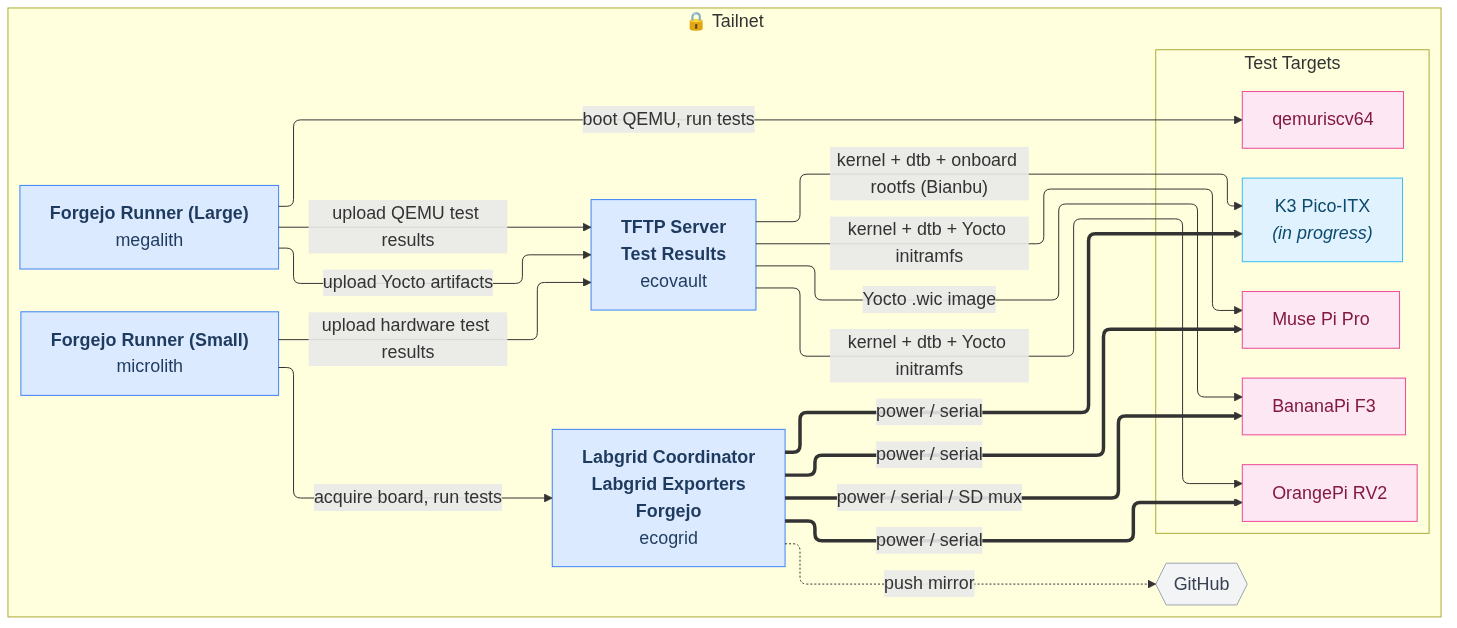
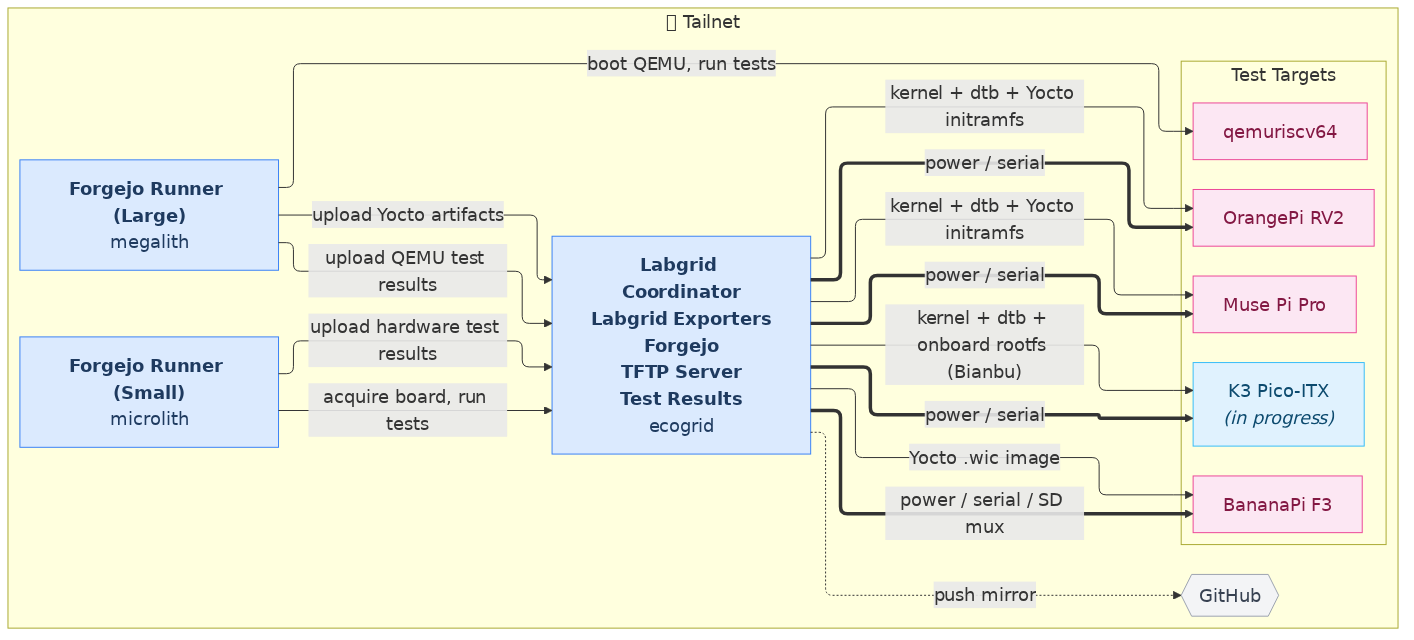
docs: update network, bom details for tftp, ecogrid

Changed region(s): [[0.0, 0.0605, 0.9958, 0.9984], [0.5912, 0.9076, 0.7468, 0.9379], [0.4668, 0.0, 0.529, 0.0605]]

diff --git a/docs/runners.md b/docs/runners.md
@@ -33,8 +33,8 @@ Set these in Settings → Actions → Variables.
 | `BOARDGARDEN_OWNER` | `tgamblin` | Owner/org of the `boardgarden`, `bitbake`, `openembedded-core`, `meta-riscv` mirrors |
 | `LG_COORDINATOR_HOST` | `ecogrid` | Short hostname of the Labgrid coordinator (also the exporter host). Used as `LG_COORDINATOR`, ssh target, and left half of `--add-host` |
 | `LG_COORDINATOR_IP` | `192.168.40.101` | LAN address for the coordinator. Right half of `--add-host` |
-| `TFTP_SERVER_HOST` | `ecovault` | Short hostname of the TFTP + report server. Used as `TFTP_SERVER`, rsync target, and left half of `--add-host` |
-| `TFTP_SERVER_IP` | `192.168.40.134` | LAN address for the TFTP server. Right half of `--add-host` |
+| `TFTP_SERVER_HOST` | `ecogrid` | Short hostname of the TFTP + report server. Used as `TFTP_SERVER`, rsync target, and left half of `--add-host`. Co-located with the Labgrid coordinator/exporter on `ecogrid` for now; may separate |
+| `TFTP_SERVER_IP` | `192.168.40.101` | LAN address for the TFTP server. Right half of `--add-host` |
 
 ## Repo secrets
 
@@ -46,9 +46,9 @@ Set these in Settings → Actions → Secrets.
 | `REGISTRY_TOKEN` | `build-push-containers` | Forgejo container registry token (paired with `REGISTRY_USERNAME`) |
 | `REGISTRY_USERNAME` | `build-push-containers` | Forgejo user or bot with `write:package` scope |
 | `RENOVATE_TOKEN` | `renovate` | Forgejo bot PAT with `read:repository`, `write:repository`, `write:issue` |
-| `REPORT_SSH_KEY` | `run-board-tests`, `riscv-ptest-nightly` | Private key for `reporter@ecovault`. rsync of `report.html` to `/testresults/` |
-| `SSH_KNOWN_HOSTS` | `deploy-to-tftp` (via `setup-ssh`), `run-board-tests` | Multi-line known_hosts covering every host the runner will ssh to (TFTP server, report server, LG coordinator). Seed with `ssh-keyscan -H -T 10 <host>` |
-| `TFTP_SERVER_SSH_KEY` | `deploy-to-tftp` → `setup-ssh`; `run-board-tests` | Private key for `auto@ecovault`. rsync build artifacts into `/srv/tftp/<board>/` |
+| `REPORT_SSH_KEY` | `run-board-tests`, `riscv-ptest-nightly` | Private key for `reporter@ecogrid`. rsync of `report.html` to `/testresults/` |
+| `SSH_KNOWN_HOSTS` | `deploy-to-tftp` (via `setup-ssh`), `run-board-tests` | Multi-line known_hosts covering every host the runner will ssh to (TFTP server, report server, LG coordinator — all `ecogrid` today). Seed with `ssh-keyscan -H -T 10 <host>` |
+| `TFTP_SERVER_SSH_KEY` | `deploy-to-tftp` → `setup-ssh`; `run-board-tests` | Private key for `auto@ecogrid`. rsync build artifacts into `/srv/tftp/<board>/` |
 
 ## Container `--add-host` mappings
 

diff --git a/docs/bom.md b/docs/bom.md
@@ -10,7 +10,6 @@
 | ID | Hostname | Tailscale FQDN | OS | Model | Specs | Status |
 |----|----------|----------------|----|-------|-------|--------|
 | `ecogrid` | ecogrid | ecogrid.oryx-coho.ts.net | Debian 13 ("Trixie") | ThinkCentre M75q-1 | AMD Ryzen 5 PRO 3400GE<br/>16 GB DDR4 RAM | active |
-| `ecovault` | ecovault | ecovault.oryx-coho.ts.net | Debian 13 ("Trixie") | ThinkCentre M715q | AMD Ryzen 3 PRO 2200GE<br/>16 GB DDR4 RAM | active |
 | `runner1` | megalith | megalith.oryx-coho.ts.net | Fedora 44 | [Custom Build](https://www.asrock.com/MB/AMD/B650E%20Taichi/index.asp) | AMD Ryzen 9 7900<br/>64 GB DDR5 RAM | active |
 | `runner2` | microlith | microlith.oryx-coho.ts.net | Fedora 44 | ThinkCentre M75q-1 | AMD Ryzen 5 PRO 3400GE<br/>16 GB DDR4 RAM | active |
 | `github` | GitHub | — | — | — | — | active |
